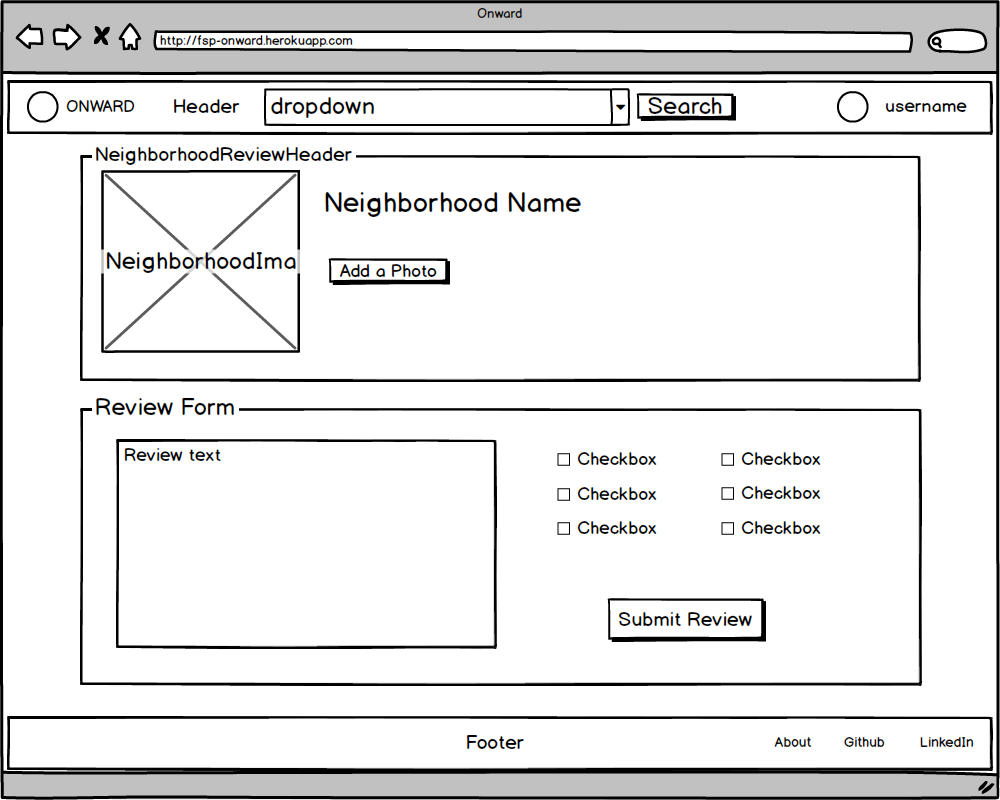
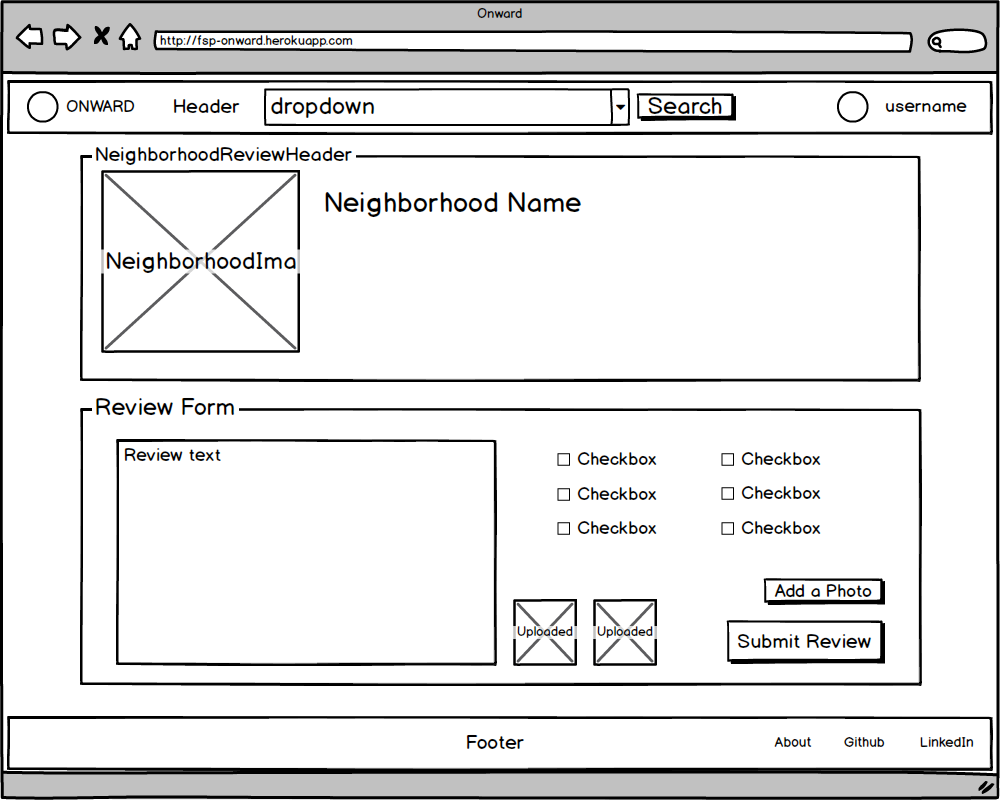
tweak wireframes, complete sample state

Changed region(s): [[0.124, 0.7188, 0.899, 0.8438], [0.341, 0.3125, 0.465, 0.375]]

diff --git a/docs/sample-state.md b/docs/sample-state.md
@@ -1,0 +1,60 @@
+```js
+{
+  currentUser: {
+    id: 1,
+    username: "app-academy"
+  },
+  forms: {
+    signUp: {errors: []},
+    login: {errors: []},
+    createReview: {errors: ["body can't be blank", "title can't be blank"]}
+  },
+  regions: [
+    {id: 1, name: "San Francisco", state: "CA", images: []}
+  ],
+  currentNeighborhood: {
+    id: 3,
+    region_id: 6,
+    center_lat: 37.7599373,
+    center_long: -122.4343564,
+    walk_score: 92,
+    transit_score: 86,
+    cost_of_living: high,
+    architecture_type: urban,
+    images: {
+      1: {
+        id: 2,
+        user_id: 4,
+        caption: "Dolores Park is the best!",
+        region_rep: true,
+        neighborhood_rep: true
+      }
+    },
+    reviews: {
+      1: {
+        id: 1,
+        user_id: 3,
+        title: "Hipsters abound",
+        body: "Can't walk around the Mission without hitting a man with a full beard and cuffed raw denim.",
+        good_for_families: false,
+        good_for_singles: true,
+        street_parking: false,
+        good_for_pets: true,
+        good_for_bikes: true
+      }
+    }
+  }
+  searchFilters: {
+    good_for_bikes: true,
+    good_for_pets: false,
+    good_for_singles: true,
+    good_for_families: true,
+    street_parking: false,
+    walk_score: high,
+    transit_score: med,
+    cost_of_living: null,
+    architecture_type: urban,
+    sf_neighborhood_match_id: 9
+  }
+}
+```

diff --git a/docs/component-hierarchy.md b/docs/component-hierarchy.md
@@ -3,7 +3,7 @@
 **AppContainer**
 - Header
 - LoginForm
-- NeighborhoodSearchDropdown
+- RegionSearchDropdown
 - Footer
 
 
@@ -33,6 +33,7 @@
 **ReviewFormContainer**
 - ReviewFormHeader
 - ReviewForm
+- UploadPhotoForm
 
 **UserProfileContainer**
 - UserProfileHeader
